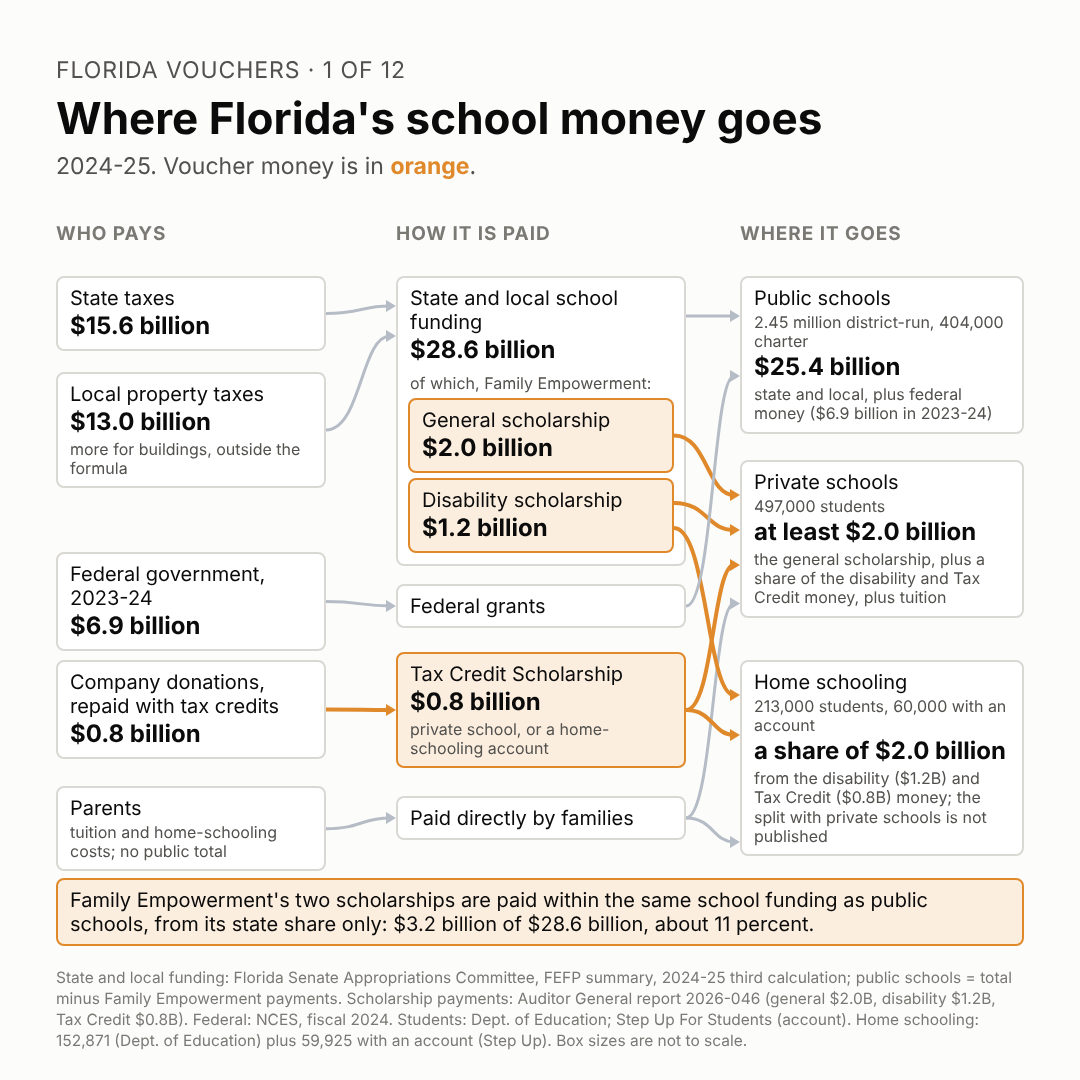
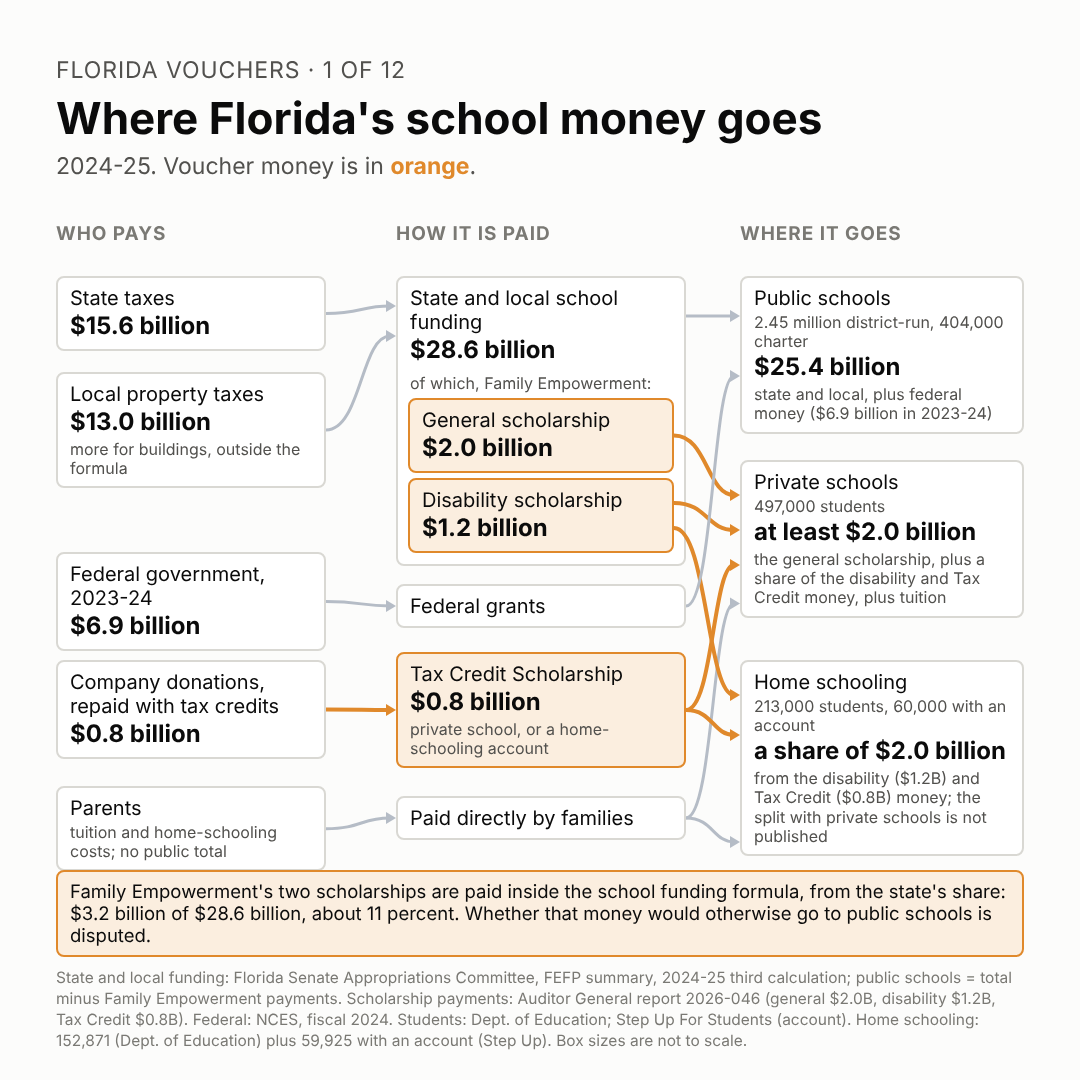
Post 1: drop line implying scholarship money would otherwise go to public schools
Claude-Session: https://claude.ai/code/session_01Tv8dvGSMcMCRhxNzj4GXHG

Changed region(s): [[0.0306, 0.7944, 0.9472, 0.8861]]

diff --git a/series/florida-vouchers/01-how-florida-got-here/post.md b/series/florida-vouchers/01-how-florida-got-here/post.md
@@ -19,7 +19,7 @@ Florida vouchers, 1 of 12
 
 How Florida Went From Vouchers for a Few Children to Vouchers for Every Child
 
-Over 25 years, the state created five programs. Two remain, open to every child and worth nearly $4 billion a year. Most of that money is paid through the same funding system as public schools.
+Over 25 years, the state created five programs. Two remain, open to every child and worth nearly $4 billion a year.
 
 In 1999, Florida paid $3,525 to send two children with disabilities to private school, according to a Florida Senate report. They were the first students in the McKay Scholarship, a pilot run in a single school district. It let a public school student with a disability take state school funding to a private school or to another public school.
 
@@ -51,7 +51,7 @@ The bill's Senate sponsor, Sen. Corey Simon, put the argument for it plainly: "w
 
 Within two years, enrollment nearly doubled. The auditor general counted 266,703 scholarship students and $2.0 billion in 2022-23, and 497,284 students and $3.98 billion in 2024-25.
 
-The image with this post shows where the money went in 2024-25. State and local school funding totaled $28.6 billion, according to the Florida Senate's budget committee. Within it, the state paid $3.2 billion in Family Empowerment scholarships from its own share, according to the auditor general. That was about 11 percent of the total, up from about 5 percent two years earlier. The Tax Credit Scholarship added $0.8 billion.
+The image with this post shows where the money went in 2024-25. State and local school funding totaled $28.6 billion, according to the Florida Senate's budget committee. Within it, the state paid $3.2 billion in Family Empowerment scholarships from its own share, according to the auditor general. That was about 11 percent of the total, up from about 5 percent two years earlier. The Tax Credit Scholarship added $0.8 billion. Whether the scholarship money would otherwise have gone to public schools is not settled by these numbers; a later post takes it up.
 
 Supporters see Florida's path as lawmakers responding, step by step, to parents who wanted more options. Critics see narrow programs, created for children with particular needs, that grew into a large system paid for with money that would otherwise go to public schools.
 
@@ -128,7 +128,6 @@ Sources for this post, all official records:
 | $3.2B for Family Empowerment, state money only; $2.0B general, $1.2B disability | Auditor General 2026-046, Tables 2-3: $2,004.2M + $1,169.6M = $3,173.8M. HB 7045 summary: scholarships "funded in the FEFP with state funds only, not local funds" |
 | About 11 percent in 2024-25, about 5 percent in 2022-23 | $3,173.8M / $28,590.8M = 11.1%. 2022-23: ($637.3M + $673.5M) / $24,530.2M = 5.3% (FEFP 2022-23 third calculation, "TOTAL FUNDING 24,530,241,398") |
 | Tax Credit $0.8B | Auditor General 2026-046, Table 4: $804.5M |
-| Summary line: "Most of that money is paid through the same funding system as public schools" | $3,173.8M of $3,978.3M (80%) is Family Empowerment, paid through the FEFP (SB 7070; HB 7045; Auditor General 2026-046, p. 6: "Funded by FEFP Funds") |
 | Simon quote | Governor's press release, March 27, 2023: "we are going to stop funding systems and start funding students" (verified verbatim) |
 | "Supporters see... / Critics see..." | Summarizes the two sides' stated positions: Simon, Passidomo and Renner in the governor's release; the FEA statement ("drain billions of taxpayer dollars away from the neighborhood public schools"). Not a factual claim. Every program began with limited eligibility (Opportunity: school rating; McKay and Gardiner: disability; Tax Credit: free or reduced-price lunch; FES: 300% FPL), sourced above |
 
@@ -165,7 +164,7 @@ These are accurate and sourced. They were moved out of the post because they are
 - The House Bill 1 paragraph now says the law also created the home-schooling account paid through the Tax Credit Scholarship. Post 3 introduced it, but post 1 never mentioned it.
 - The paragraph after House Bill 1 now names the four kinds of aid in one place. "Income-based" is no longer used for scholarships after 2023, since they have had no income limit since then; they are called "general".
 - New paragraph describing the map: $28.6 billion in state and local funding, $3.2 billion of it (state money only) for Family Empowerment, about 11 percent, up from about 5 percent; $0.8 billion through tax credits. The question of whether that money comes out of public schools' share stays in post 6.
-- Summary line adds that most of the money is paid through the same funding system as public schools.
+- A summary-line addition ("Most of that money is paid through the same funding system as public schools") was cut at RJ's request: it implied the money would otherwise have gone to public schools, which the record doesn't show. The map paragraph now says the numbers don't settle that question.
 
 **Draft 10 (final read, agreed with RJ):**
 - New headline. The old one said Florida went "from vouchers for failing schools," but the post shows the failing-schools voucher ended in 2006 and the current programs grew from the others.
